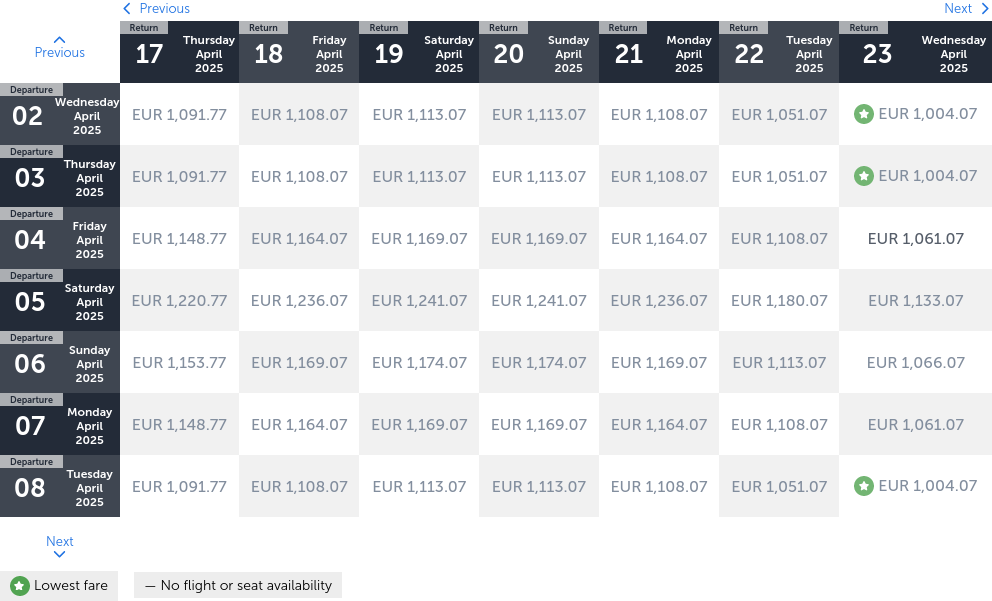
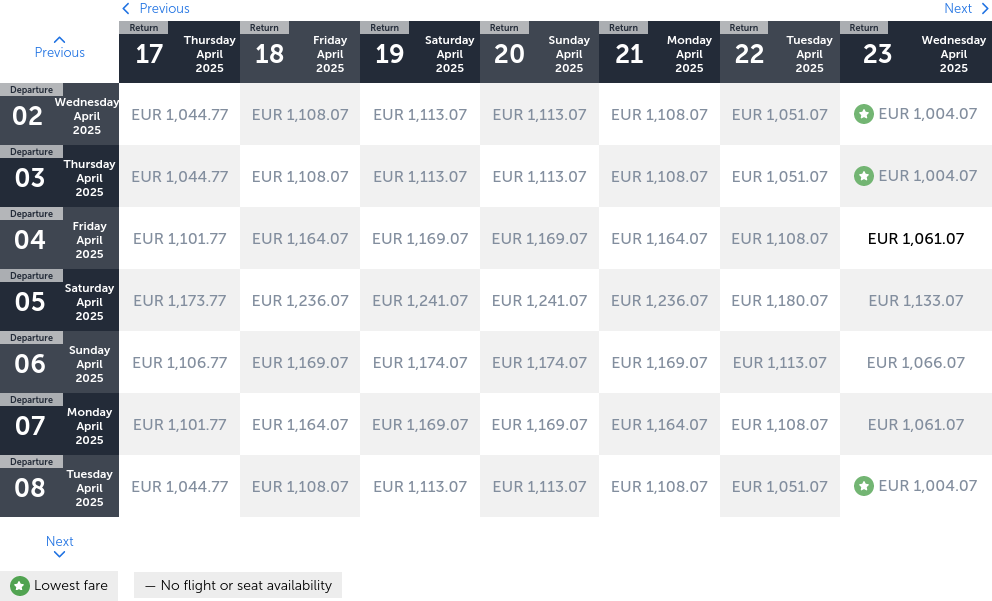
Latest scraping taiwan: Sat Jun 22 22:37:37 UTC 2024

diff --git a/scrapes/taiwan/turkish-airlines.md b/scrapes/taiwan/turkish-airlines.md
@@ -2,13 +2,13 @@
 | --- | --- |     |     |     |     |     | --- | --- | --- | --- | --- | --- |
 | Previous | Return<br><br>17<br><br>Thursday<br><br>April<br><br>2025 | Return<br><br>18<br><br>Friday<br><br>April<br><br>2025 | Return<br><br>19<br><br>Saturday<br><br>April<br><br>2025 | Return<br><br>20<br><br>Sunday<br><br>April<br><br>2025 | Return<br><br>21<br><br>Monday<br><br>April<br><br>2025 | Return<br><br>22<br><br>Tuesday<br><br>April<br><br>2025 | Return<br><br>23<br><br>Wednesday<br><br>April<br><br>2025 |
 | --- | --- | --- | --- | --- | --- | --- | --- |
-| Departure<br><br>02<br><br>Wednesday<br><br>April<br><br>2025 | EUR1,091.77 | EUR1,108.07 | EUR1,113.07 | EUR1,113.07 | EUR1,108.07 | EUR1,051.07 | EUR1,004.07 |
-| Departure<br><br>03<br><br>Thursday<br><br>April<br><br>2025 | EUR1,091.77 | EUR1,108.07 | EUR1,113.07 | EUR1,113.07 | EUR1,108.07 | EUR1,051.07 | EUR1,004.07 |
-| Departure<br><br>04<br><br>Friday<br><br>April<br><br>2025 | EUR1,148.77 | EUR1,164.07 | EUR1,169.07 | EUR1,169.07 | EUR1,164.07 | EUR1,108.07 | EUR1,061.07 |
-| Departure<br><br>05<br><br>Saturday<br><br>April<br><br>2025 | EUR1,220.77 | EUR1,236.07 | EUR1,241.07 | EUR1,241.07 | EUR1,236.07 | EUR1,180.07 | EUR1,133.07 |
-| Departure<br><br>06<br><br>Sunday<br><br>April<br><br>2025 | EUR1,153.77 | EUR1,169.07 | EUR1,174.07 | EUR1,174.07 | EUR1,169.07 | EUR1,113.07 | EUR1,066.07 |
-| Departure<br><br>07<br><br>Monday<br><br>April<br><br>2025 | EUR1,148.77 | EUR1,164.07 | EUR1,169.07 | EUR1,169.07 | EUR1,164.07 | EUR1,108.07 | EUR1,061.07 |
-| Departure<br><br>08<br><br>Tuesday<br><br>April<br><br>2025 | EUR1,091.77 | EUR1,108.07 | EUR1,113.07 | EUR1,113.07 | EUR1,108.07 | EUR1,051.07 | EUR1,004.07 |
+| Departure<br><br>02<br><br>Wednesday<br><br>April<br><br>2025 | EUR1,044.77 | EUR1,108.07 | EUR1,113.07 | EUR1,113.07 | EUR1,108.07 | EUR1,051.07 | EUR1,004.07 |
+| Departure<br><br>03<br><br>Thursday<br><br>April<br><br>2025 | EUR1,044.77 | EUR1,108.07 | EUR1,113.07 | EUR1,113.07 | EUR1,108.07 | EUR1,051.07 | EUR1,004.07 |
+| Departure<br><br>04<br><br>Friday<br><br>April<br><br>2025 | EUR1,101.77 | EUR1,164.07 | EUR1,169.07 | EUR1,169.07 | EUR1,164.07 | EUR1,108.07 | EUR1,061.07 |
+| Departure<br><br>05<br><br>Saturday<br><br>April<br><br>2025 | EUR1,173.77 | EUR1,236.07 | EUR1,241.07 | EUR1,241.07 | EUR1,236.07 | EUR1,180.07 | EUR1,133.07 |
+| Departure<br><br>06<br><br>Sunday<br><br>April<br><br>2025 | EUR1,106.77 | EUR1,169.07 | EUR1,174.07 | EUR1,174.07 | EUR1,169.07 | EUR1,113.07 | EUR1,066.07 |
+| Departure<br><br>07<br><br>Monday<br><br>April<br><br>2025 | EUR1,101.77 | EUR1,164.07 | EUR1,169.07 | EUR1,169.07 | EUR1,164.07 | EUR1,108.07 | EUR1,061.07 |
+| Departure<br><br>08<br><br>Tuesday<br><br>April<br><br>2025 | EUR1,044.77 | EUR1,108.07 | EUR1,113.07 | EUR1,113.07 | EUR1,108.07 | EUR1,051.07 | EUR1,004.07 |
 | Next |
 | Lowest fare— No flight or seat availability |     |     |     |     |     |     |     |     |     |
 
